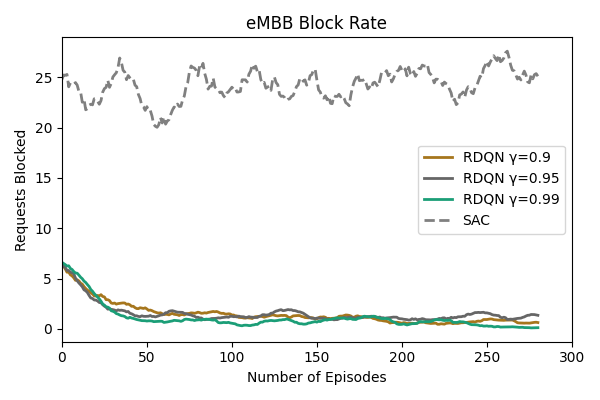
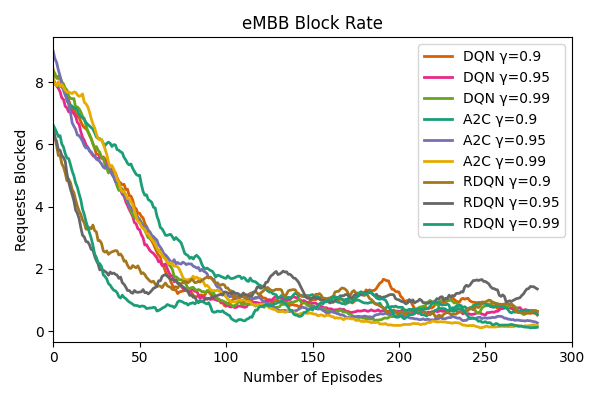
Latest stable ver. (14Jun)

diff --git a/Averages_RDQN_Gamma.py b/Averages_RDQN_Gamma.py
@@ -1,0 +1,35 @@
+import os
+import numpy as np
+import csv
+
+def compute_averages_from_npz(directory):
+    categories = {"embb_sla": [], "urllc_sla": []}
+    for file_name in os.listdir(directory):
+        if file_name.endswith(".npz"):
+            file_path = os.path.join(directory, file_name)
+            data = np.load(file_path)
+            for category in categories.keys():
+                if category in data.files:
+                    categories[category].extend(data[category])
+    for category in categories:
+        categories[category] = np.mean(categories[category]) if categories[category] else 0.0
+    return categories
+
+if __name__ == "__main__":
+    gamma_values = [0.9, 0.95, 0.99]
+    base_dir = "/home/w5/pydemo/mecon25/results/results_rdqn_gamma_{}"
+    csv_file_path = "/home/w5/pydemo/mecon25/averages_rdqn_gammas.csv"
+    with open(csv_file_path, mode="w", newline="") as csv_file:
+        csv_writer = csv.writer(csv_file)
+        csv_writer.writerow(["Gamma", "embb_sla_avg", "urllc_sla_avg"])
+        for gamma in gamma_values:
+            gamma_str = str(gamma).replace('.', '_')
+            dir_path = base_dir.format(gamma_str)
+            if os.path.exists(dir_path):
+                avgs = compute_averages_from_npz(dir_path)
+                csv_writer.writerow([
+                    gamma,
+                    f"{avgs['embb_sla']:.3f}",
+                    f"{avgs['urllc_sla']:.3f}"
+                ])
+    print(f"Averages for all RDQN gammas written to {csv_file_path}")

diff --git a/Compare.py b/Compare.py
@@ -300,11 +300,11 @@ for gamma in RDQN_GAMMAS:
 # ================================
 PLOT_A2C = False
 PLOT_DQN = False
-PLOT_DQN_GAMMAS = False
-PLOT_A2C_GAMMAS = False
 PLOT_RDQN = False
-PLOT_RANDOM = True
-PLOT_RDQN_GAMMAS = True
+PLOT_A2C_GAMMAS = False
+PLOT_DQN_GAMMAS = True
+PLOT_RDQN_GAMMAS = False
+PLOT_RANDOM = False
 
 # ================================
 # Plotting
